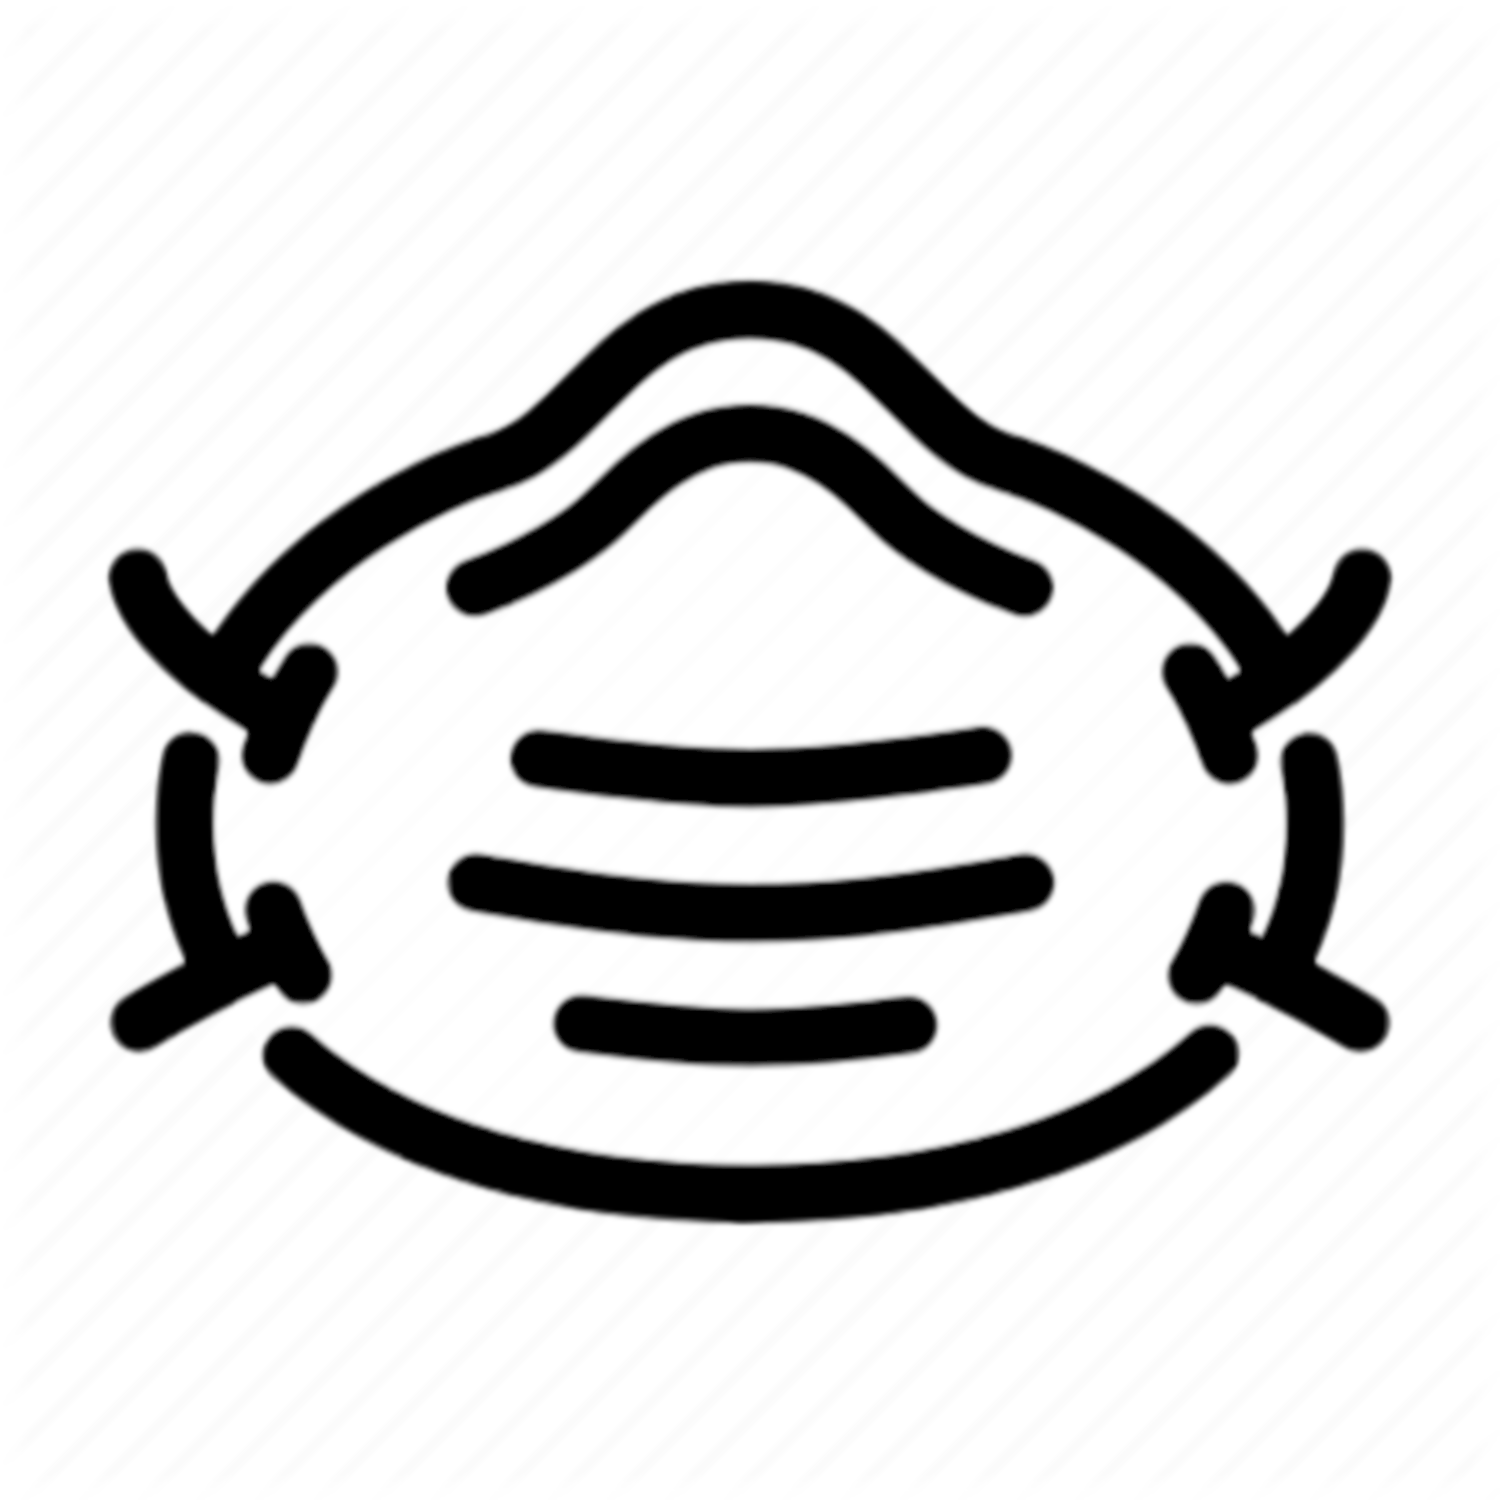
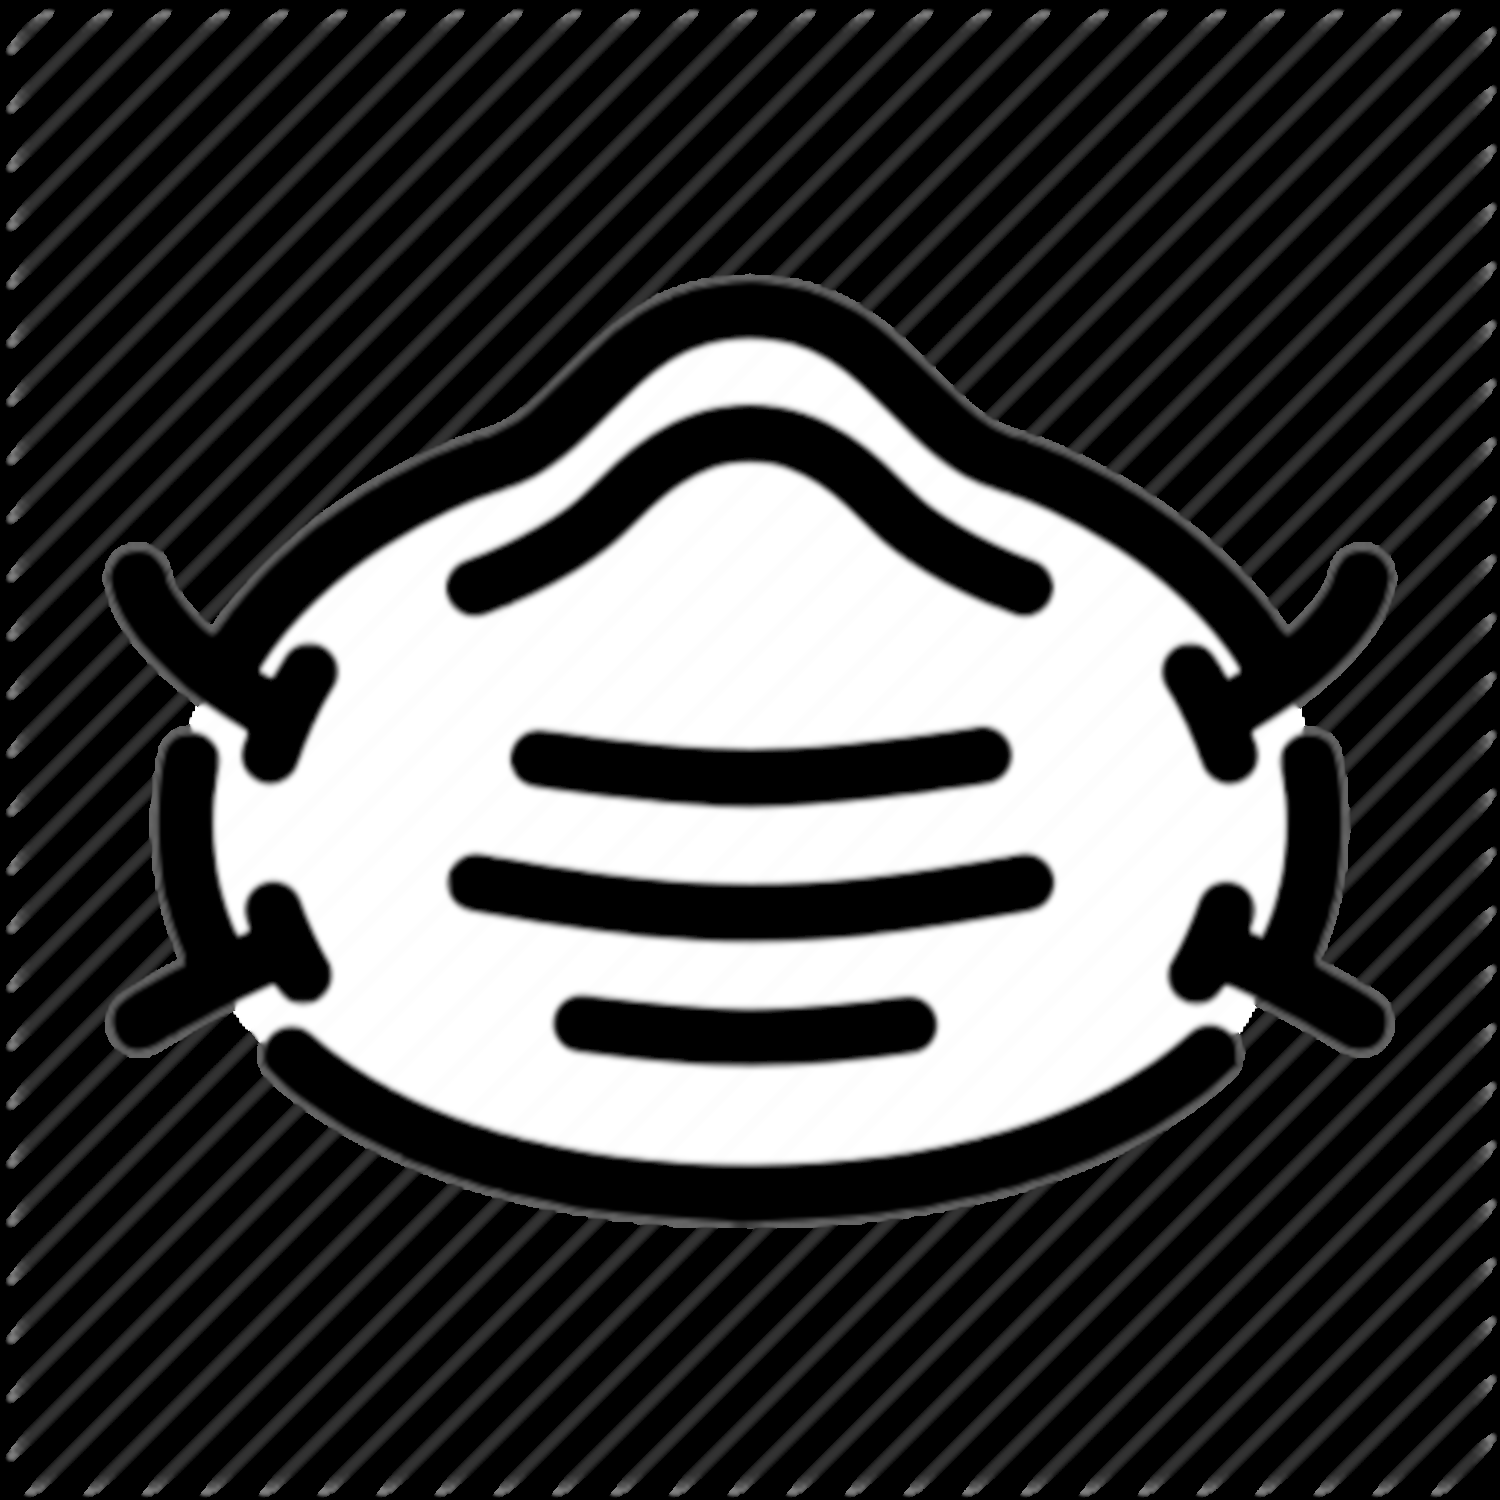
big image for itune

diff --git a/gatsby-config.js b/gatsby-config.js
@@ -30,6 +30,9 @@ const feedOptions = {
       ],
     },
     {
+      "itunes:image": "no",
+    },
+    {
       "itunes:image": {
         _attr: {
           href: "https://ffp3.live/ffp3-big.png",
